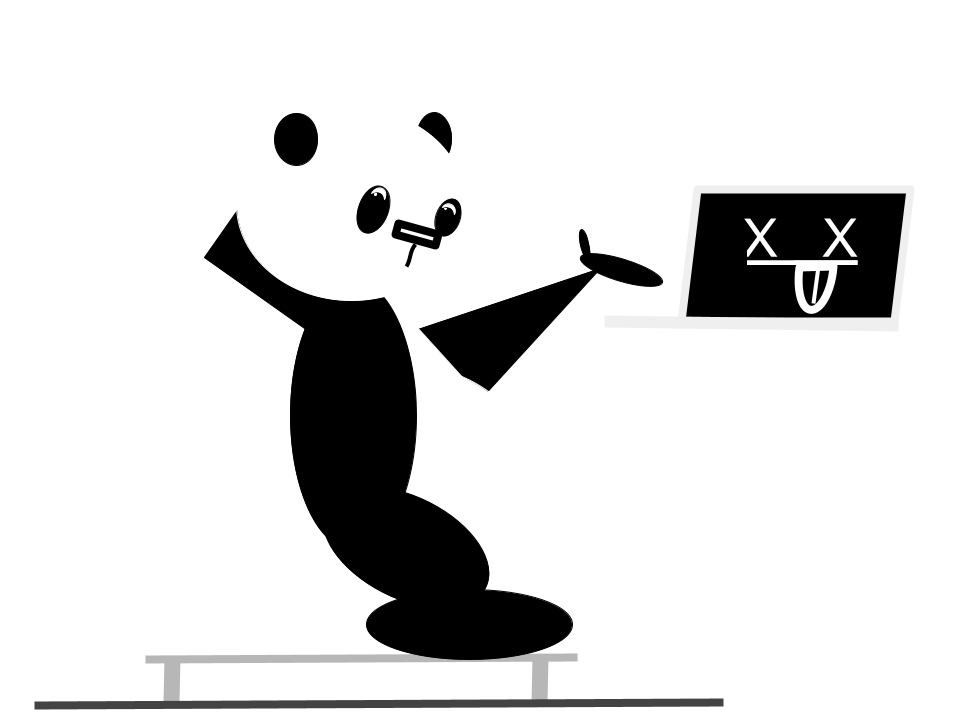
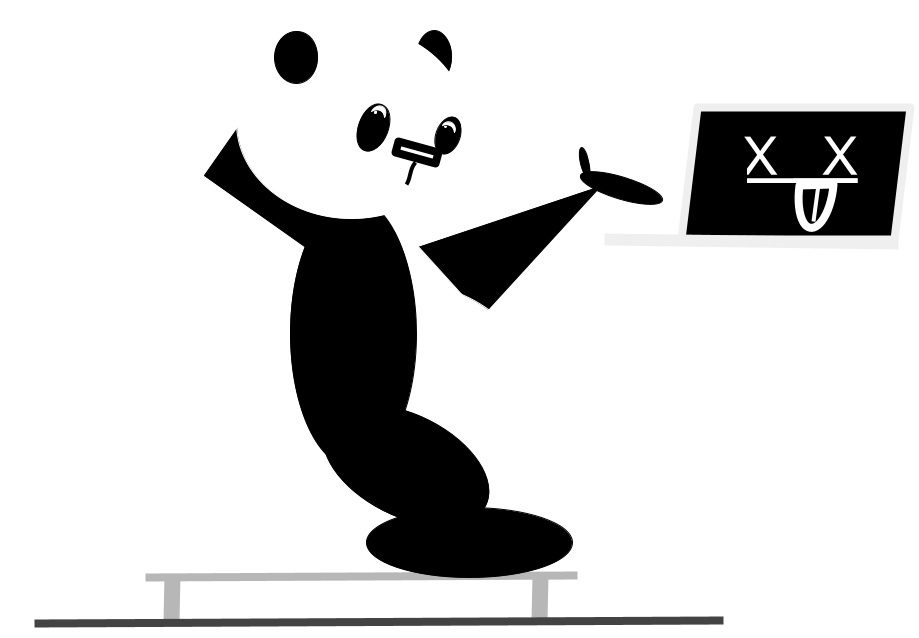
changed

Changed region(s): [[0.0305, 0.0298, 1.0, 1.0], [0.457, 0.0298, 0.4875, 0.1191]]

diff --git a/docs/index.html b/docs/index.html
@@ -14,7 +14,7 @@
     </head>
     <body>
         <h1 style="font-size: 150px;">404</h1>
-        <img src="images/error404.png" width="100%">
+        <img src="images/error404.png" height="400px">
         <p>Your access to MillionNews is denied for posting inappropriate comments.</p>
     </body>
 </html>
